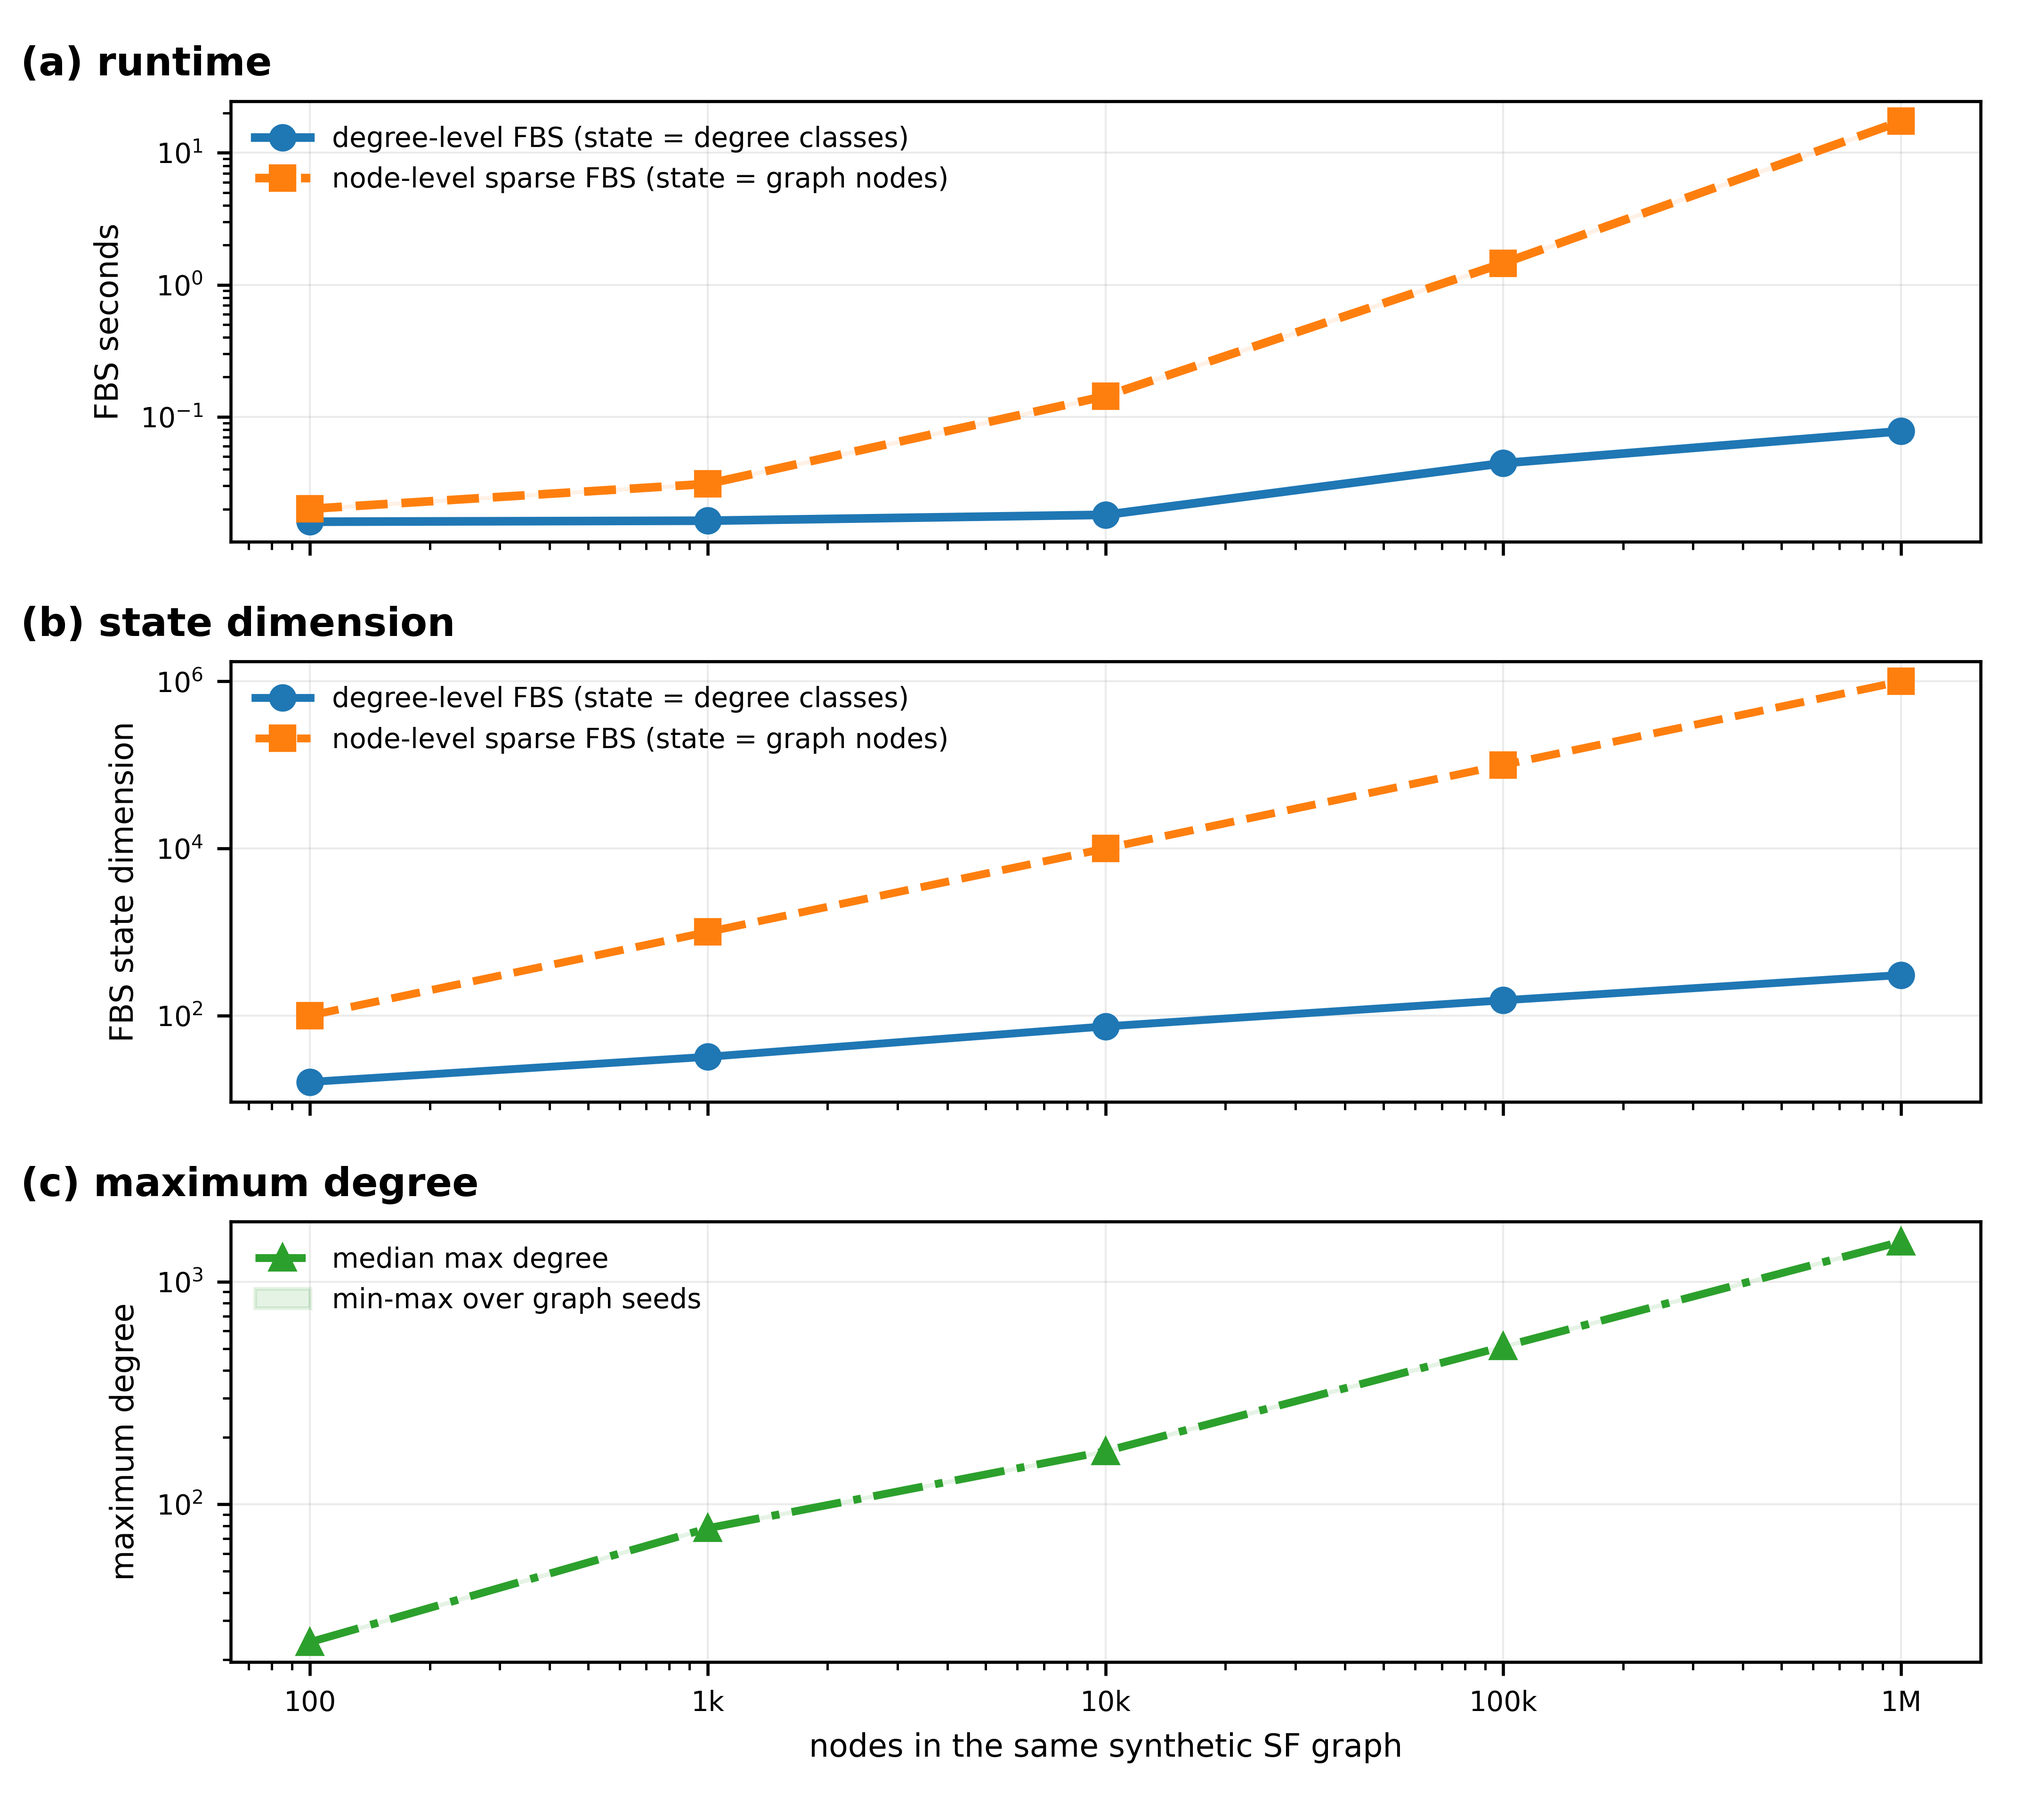
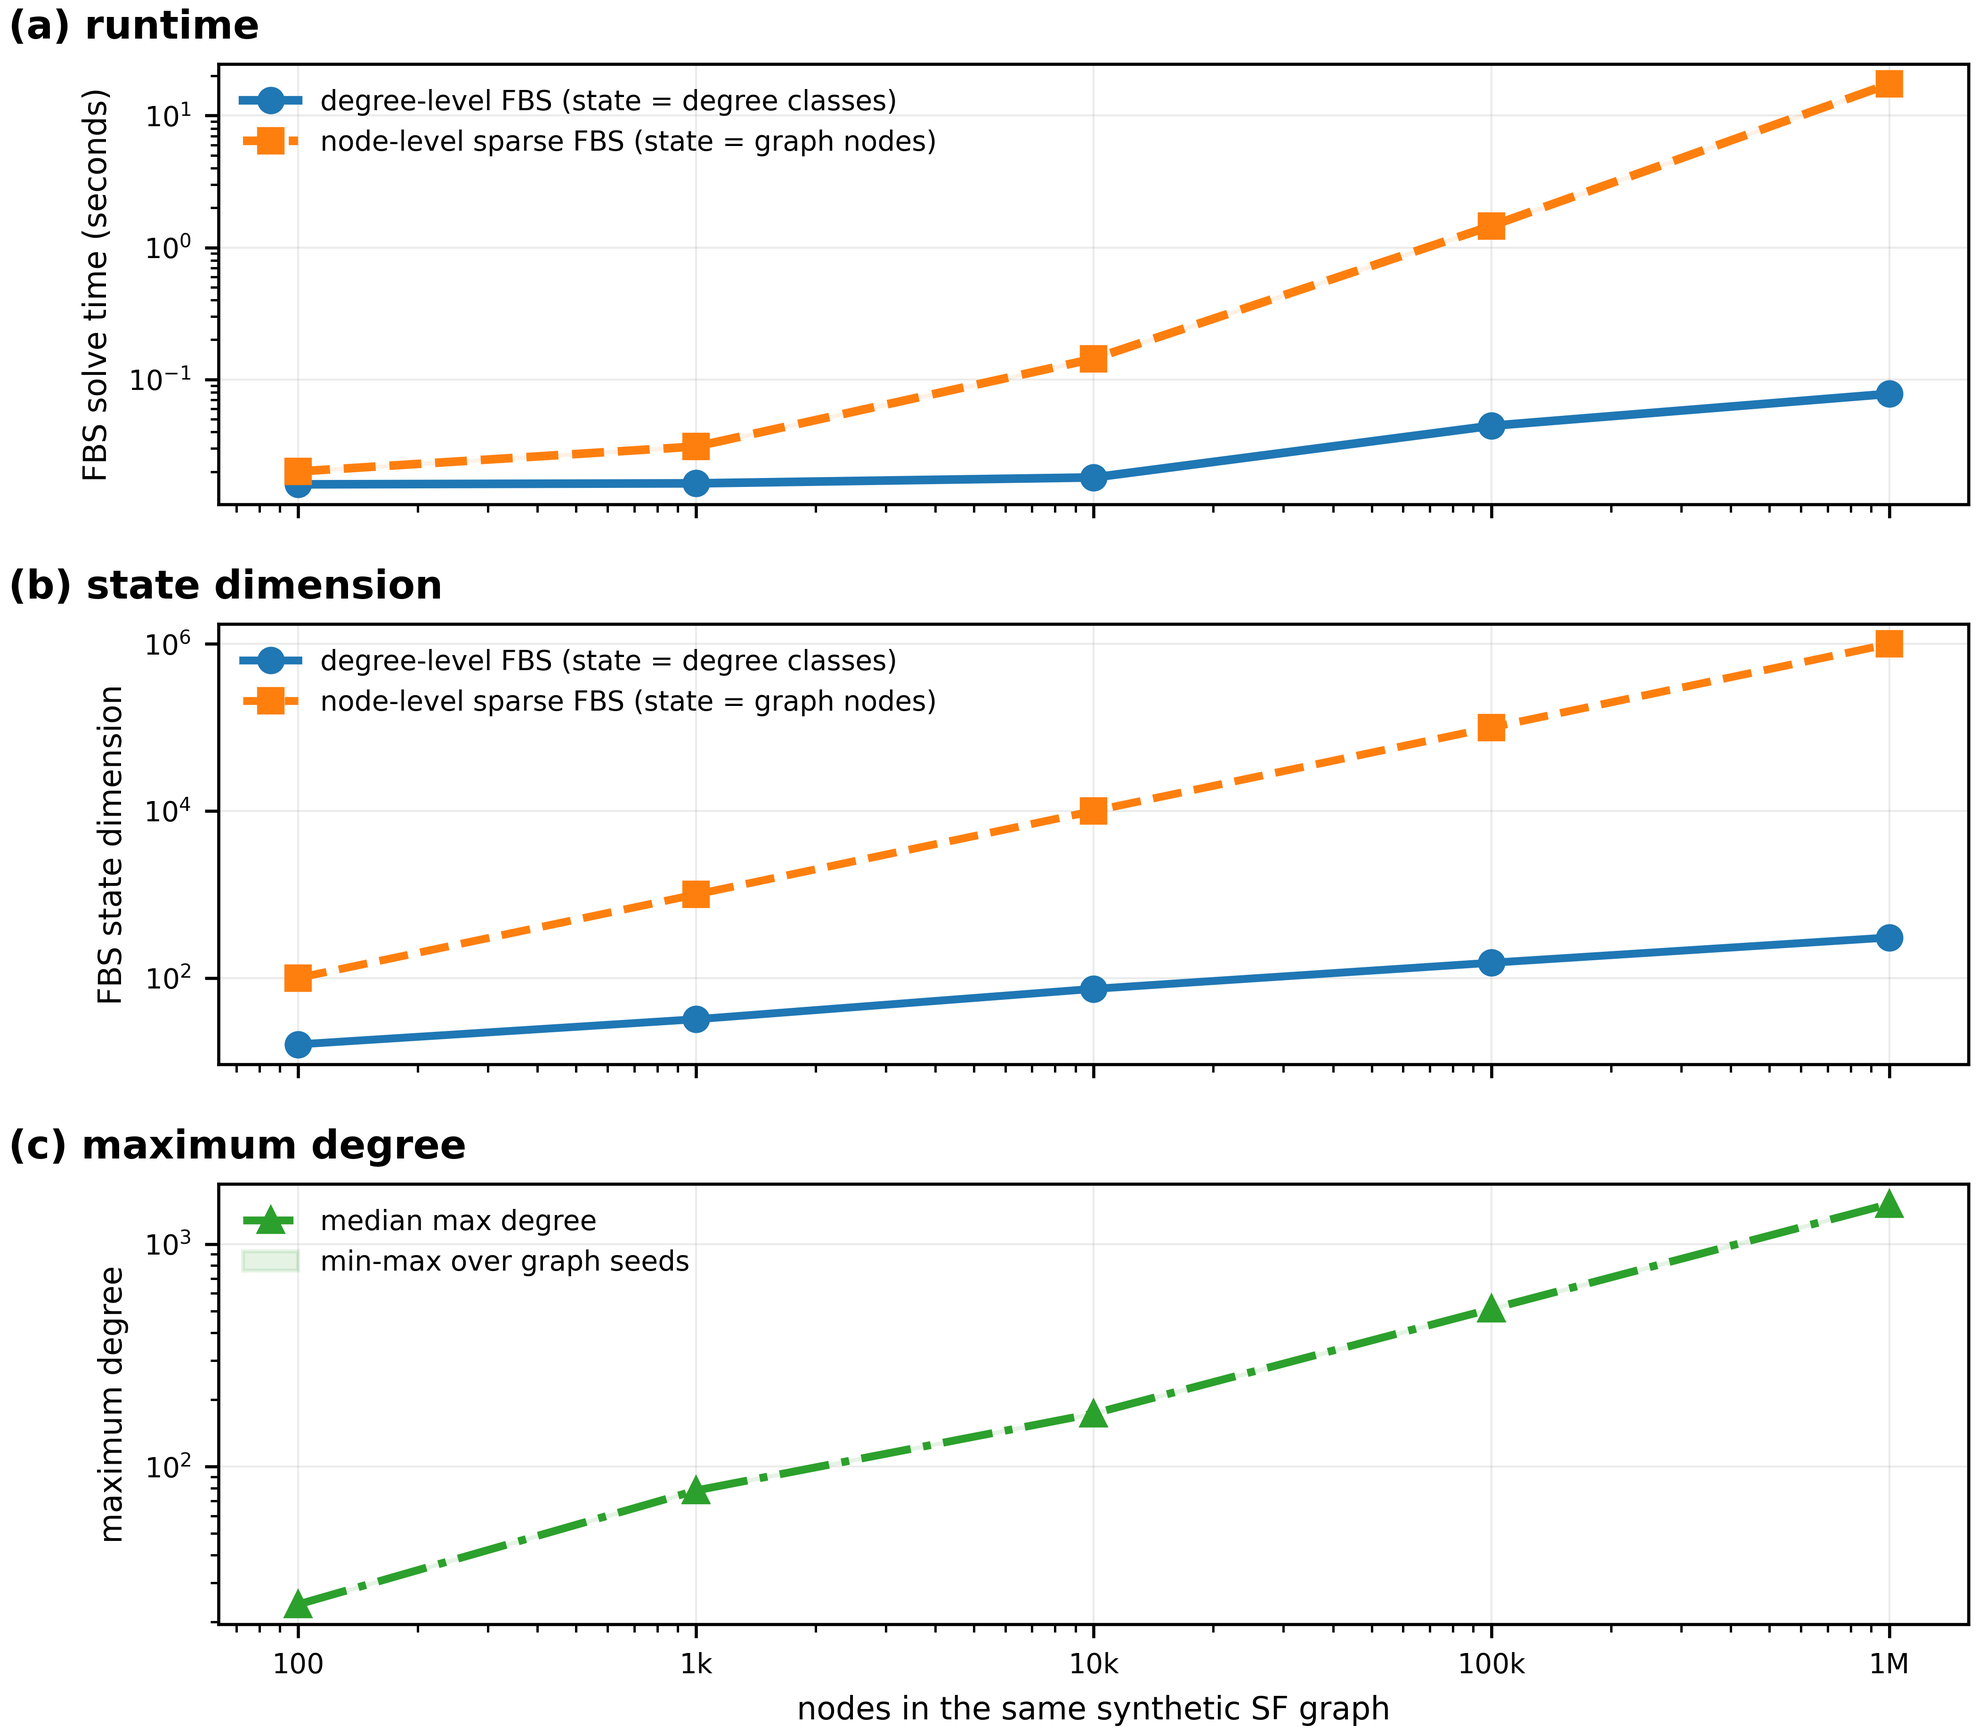
Clarify README figure axes and titles

diff --git a/examples/reference/run_reference_smoke.py b/examples/reference/run_reference_smoke.py
@@ -394,13 +394,23 @@ def run_opinion_malware() -> dict[str, float]:
 
     fig, axes = plt.subplots(1, 3, figsize=FIGSIZE_REFERENCE)
     axes[0].plot(np.arange(maxiter + 1), J, marker="o", linewidth=LINE_WIDTH)
-    apply_clean_axes(axes[0], xlabel="iteration", ylabel="J", title="OpinionMalware impulse-control payoff")
+    apply_clean_axes(
+        axes[0],
+        xlabel="iteration",
+        ylabel="objective value J",
+        title="OpinionMalware impulse-control objective",
+    )
 
     plot_time_series(axes[1], t, om.c.mean(axis=1), "state: mean malware c (all nodes)", linestyle="-")
     plot_time_series(axes[1], t, om.o.mean(axis=1), "state: mean opinion o (all nodes)", linestyle="--")
     mark_event_times(axes[1], t, imp_a, color="tab:red", label="u1 impulse time")
     mark_event_times(axes[1], t, imp_b, color="tab:green", label="u2 impulse time")
-    apply_clean_axes(axes[1], xlabel="time", title="node-level mean states (all nodes)")
+    apply_clean_axes(
+        axes[1],
+        xlabel="time",
+        ylabel="mean state share",
+        title="node-level mean states (all nodes)",
+    )
     axes[1].legend(frameon=False, fontsize=8)
 
     plot_impulse_events(axes[2], t, om.u1, "impulse control u1 (discrete)", color="tab:red", event_indices=imp_a)
@@ -656,7 +666,12 @@ def run_propaganda_war() -> dict[str, float]:
     fig, axes = plt.subplots(1, 3, figsize=FIGSIZE_REFERENCE)
     axes[0].plot(np.arange(pw.maxiter + 1), jr, marker="o", linewidth=LINE_WIDTH, label="J red")
     axes[0].plot(np.arange(pw.maxiter + 1), jb, marker="o", linewidth=LINE_WIDTH, label="J blue")
-    apply_clean_axes(axes[0], xlabel="iteration", title="PropagandaWar continuous-impulsive game payoff")
+    apply_clean_axes(
+        axes[0],
+        xlabel="iteration",
+        ylabel="payoff value J",
+        title="PropagandaWar continuous-impulsive game payoff",
+    )
     axes[0].legend(frameon=False, fontsize=8)
 
     plot_time_series(axes[1], t, pw.pr @ pw.pkr, "state: red P (degree-weighted mean)", linestyle="-")
@@ -665,7 +680,12 @@ def run_propaganda_war() -> dict[str, float]:
     plot_time_series(axes[1], t, pw.cb @ pw.pkb, "state: blue C (degree-weighted mean)", linestyle=":")
     mark_event_times(axes[1], t, red_pulses, color="tab:red", label="red pulse")
     mark_event_times(axes[1], t, blue_pulses, color="tab:blue", label="blue pulse")
-    apply_clean_axes(axes[1], xlabel="time", title="degree-level states (degree-weighted means)")
+    apply_clean_axes(
+        axes[1],
+        xlabel="time",
+        ylabel="degree-weighted state share",
+        title="degree-level states (degree-weighted means)",
+    )
     axes[1].legend(frameon=False, ncol=1, fontsize=7, loc="center left")
 
     plot_time_series(axes[2], t, pw.ur, "continuous strategy ur(t)", color="tab:red", linestyle="-")
@@ -673,7 +693,12 @@ def run_propaganda_war() -> dict[str, float]:
     plot_impulse_events(axes[2], t, pw.vr, "impulse vr(tau)", color="tab:orange", event_indices=red_pulses)
     plot_impulse_events(axes[2], t, pw.vb, "impulse vb(tau)", color="tab:cyan", event_indices=blue_pulses, linestyle="--")
     axes[2].set_ylim(0.0, max(1.15, float(max(np.max(pw.ur), np.max(pw.ub), np.max(pw.vr), np.max(pw.vb))) + 0.12))
-    apply_clean_axes(axes[2], xlabel="time", ylabel="strategy value", title="continuous-impulsive: flow + impulse strategies")
+    apply_clean_axes(
+        axes[2],
+        xlabel="time",
+        ylabel="flow / impulse strategy value",
+        title="continuous-impulsive: flow + impulse strategies",
+    )
     axes[2].legend(frameon=False, ncol=2, fontsize=8)
     fig.tight_layout()
     save_publication_figure(
@@ -838,13 +863,23 @@ def run_propaganda_tcss() -> dict[str, float]:
 
     fig, axes = plt.subplots(1, 3, figsize=FIGSIZE_REFERENCE)
     axes[0].plot(np.arange(maxiter + 1), J, marker="o", linewidth=LINE_WIDTH)
-    apply_clean_axes(axes[0], xlabel="iteration", ylabel="J", title="TCSS optimal impulse-control profit")
+    apply_clean_axes(
+        axes[0],
+        xlabel="iteration",
+        ylabel="profit value J",
+        title="TCSS optimal impulse-control profit",
+    )
 
     plot_time_series(axes[1], t, sa.mean(axis=1), "state: mean Sa over all nodes", linestyle="-")
     plot_time_series(axes[1], t, su.mean(axis=1), "state: mean Su over all nodes", linestyle="--")
     plot_time_series(axes[1], t, r.mean(axis=1), "state: mean R over all nodes", linestyle="-.")
     mark_event_times(axes[1], t, pulse_events, color="0.35", label="pulse time")
-    apply_clean_axes(axes[1], xlabel="time", title="node-level mean states (all nodes)")
+    apply_clean_axes(
+        axes[1],
+        xlabel="time",
+        ylabel="mean state share",
+        title="node-level mean states (all nodes)",
+    )
     axes[1].legend(frameon=False, fontsize=8)
 
     plot_impulse_events(

diff --git a/examples/foundations/code/network_control_examples.py b/examples/foundations/code/network_control_examples.py
@@ -1117,8 +1117,12 @@ def plot_degree_control(result: TimeSeries, D: DegreeData, out_dir: Path) -> Non
     )
     for j in sorted(set([0, len(D.k) // 2, len(D.k) - 1])):
         plot_time_series(ax, result.t, result.x[:, j], f"state: degree k={int(D.k[j])}", linestyle="--", linewidth=1.5)
-    apply_clean_axes(ax, xlabel="time", ylabel="state / control",
-                     title=f"Degree-k continuous optimal control, cost={result.value['cost']:.2f}")
+    apply_clean_axes(
+        ax,
+        xlabel="time",
+        ylabel="infection share / control intensity",
+        title=f"Degree-k continuous optimal control (population-weighted means), cost={result.value['cost']:.2f}",
+    )
     ax.legend(frameon=False, fontsize=8)
     savefig(out_dir / "degree_control_trajectory")
 
@@ -1143,8 +1147,12 @@ def plot_degree_game(result: TimeSeries, D: DegreeData, out_dir: Path) -> None:
     )
     high = int(np.argmax(D.k))
     plot_time_series(ax, result.t, result.x[:, high], f"state: high degree k={int(D.k[high])}", linestyle=":", linewidth=1.8)
-    apply_clean_axes(ax, xlabel="time", ylabel="state / control",
-                     title=f"Degree-k continuous differential game, JA={result.value['JA']:.2f}, JD={result.value['JD']:.2f}")
+    apply_clean_axes(
+        ax,
+        xlabel="time",
+        ylabel="infection share / strategy intensity",
+        title=f"Degree-k continuous game (population-weighted means), JA={result.value['JA']:.2f}, JD={result.value['JD']:.2f}",
+    )
     ax.legend(frameon=False, fontsize=8)
     savefig(out_dir / "degree_game_trajectory")
 
@@ -1161,8 +1169,12 @@ def plot_node_control(result: TimeSeries, out_dir: Path) -> None:
         "continuous control: node mean",
         linestyle="-.",
     )
-    apply_clean_axes(ax, xlabel="time", ylabel="aggregate value",
-                     title=f"Node-level continuous optimal control, cost={result.value['cost']:.2f}")
+    apply_clean_axes(
+        ax,
+        xlabel="time",
+        ylabel="infection share / control intensity",
+        title=f"Node-level continuous optimal control (node aggregates), cost={result.value['cost']:.2f}",
+    )
     ax.legend(frameon=False, fontsize=8)
     savefig(out_dir / "node_control_trajectory")
 
@@ -1185,8 +1197,12 @@ def plot_node_game(result: TimeSeries, out_dir: Path) -> None:
         "continuous defense strategy: node mean",
         linestyle="-.",
     )
-    apply_clean_axes(ax, xlabel="time", ylabel="aggregate value",
-                     title=f"Node-level continuous differential game, JA={result.value['JA']:.2f}, JD={result.value['JD']:.2f}")
+    apply_clean_axes(
+        ax,
+        xlabel="time",
+        ylabel="infection share / strategy intensity",
+        title=f"Node-level continuous game (node aggregates), JA={result.value['JA']:.2f}, JD={result.value['JD']:.2f}",
+    )
     ax.legend(frameon=False, fontsize=8)
     savefig(out_dir / "node_game_trajectory")
 
@@ -1207,7 +1223,7 @@ def plot_continuous_impulse(result: TimeSeries, out_dir: Path) -> None:
     mark_event_times(ax_state, impulse_times, label="impulse time")
     apply_clean_axes(
         ax_state,
-        ylabel="state",
+        ylabel="infection share",
         title=f"Continuous-impulse control on {controlled_count} high-degree nodes",
     )
     ax_state.legend(frameon=False, ncol=2, fontsize=8)
@@ -1225,7 +1241,7 @@ def plot_continuous_impulse(result: TimeSeries, out_dir: Path) -> None:
     apply_clean_axes(
         ax_control,
         xlabel="time",
-        ylabel="control",
+        ylabel="control intensity / impulse fraction",
         title=f"continuous range={continuous_min:.2f}-{continuous_max:.2f}; impulse fraction={impulse_fraction:.2f}",
     )
     ax_control.legend(frameon=False, ncol=2, fontsize=8)

diff --git a/examples/foundations/code/scalability_analysis.py b/examples/foundations/code/scalability_analysis.py
@@ -844,7 +844,7 @@ def plot_paired_comparison(summary: pd.DataFrame, raw: pd.DataFrame, out_dir: Pa
         )
     ax.set_xscale("log")
     ax.set_yscale("log")
-    ax.set_ylabel("FBS seconds")
+    ax.set_ylabel("FBS solve time (seconds)")
     panel_label(ax, "(a) runtime")
     ax.xaxis.set_major_locator(FixedLocator(x_ticks))
     ax.xaxis.set_major_formatter(x_formatter)
@@ -1066,7 +1066,7 @@ This run compares two FBS discretizations of the same normalized SIS epidemic-co
 
 At {largest_node} nodes:
 
-| Model level | Solver label | FBS state dimension | FBS iterations | Median FBS seconds | All runs converged |
+| Model level | Solver label | FBS state dimension | FBS iterations | Median FBS solve time (seconds) | All runs converged |
 | --- | --- | ---: | ---: | ---: | --- |
 {rows}
 
